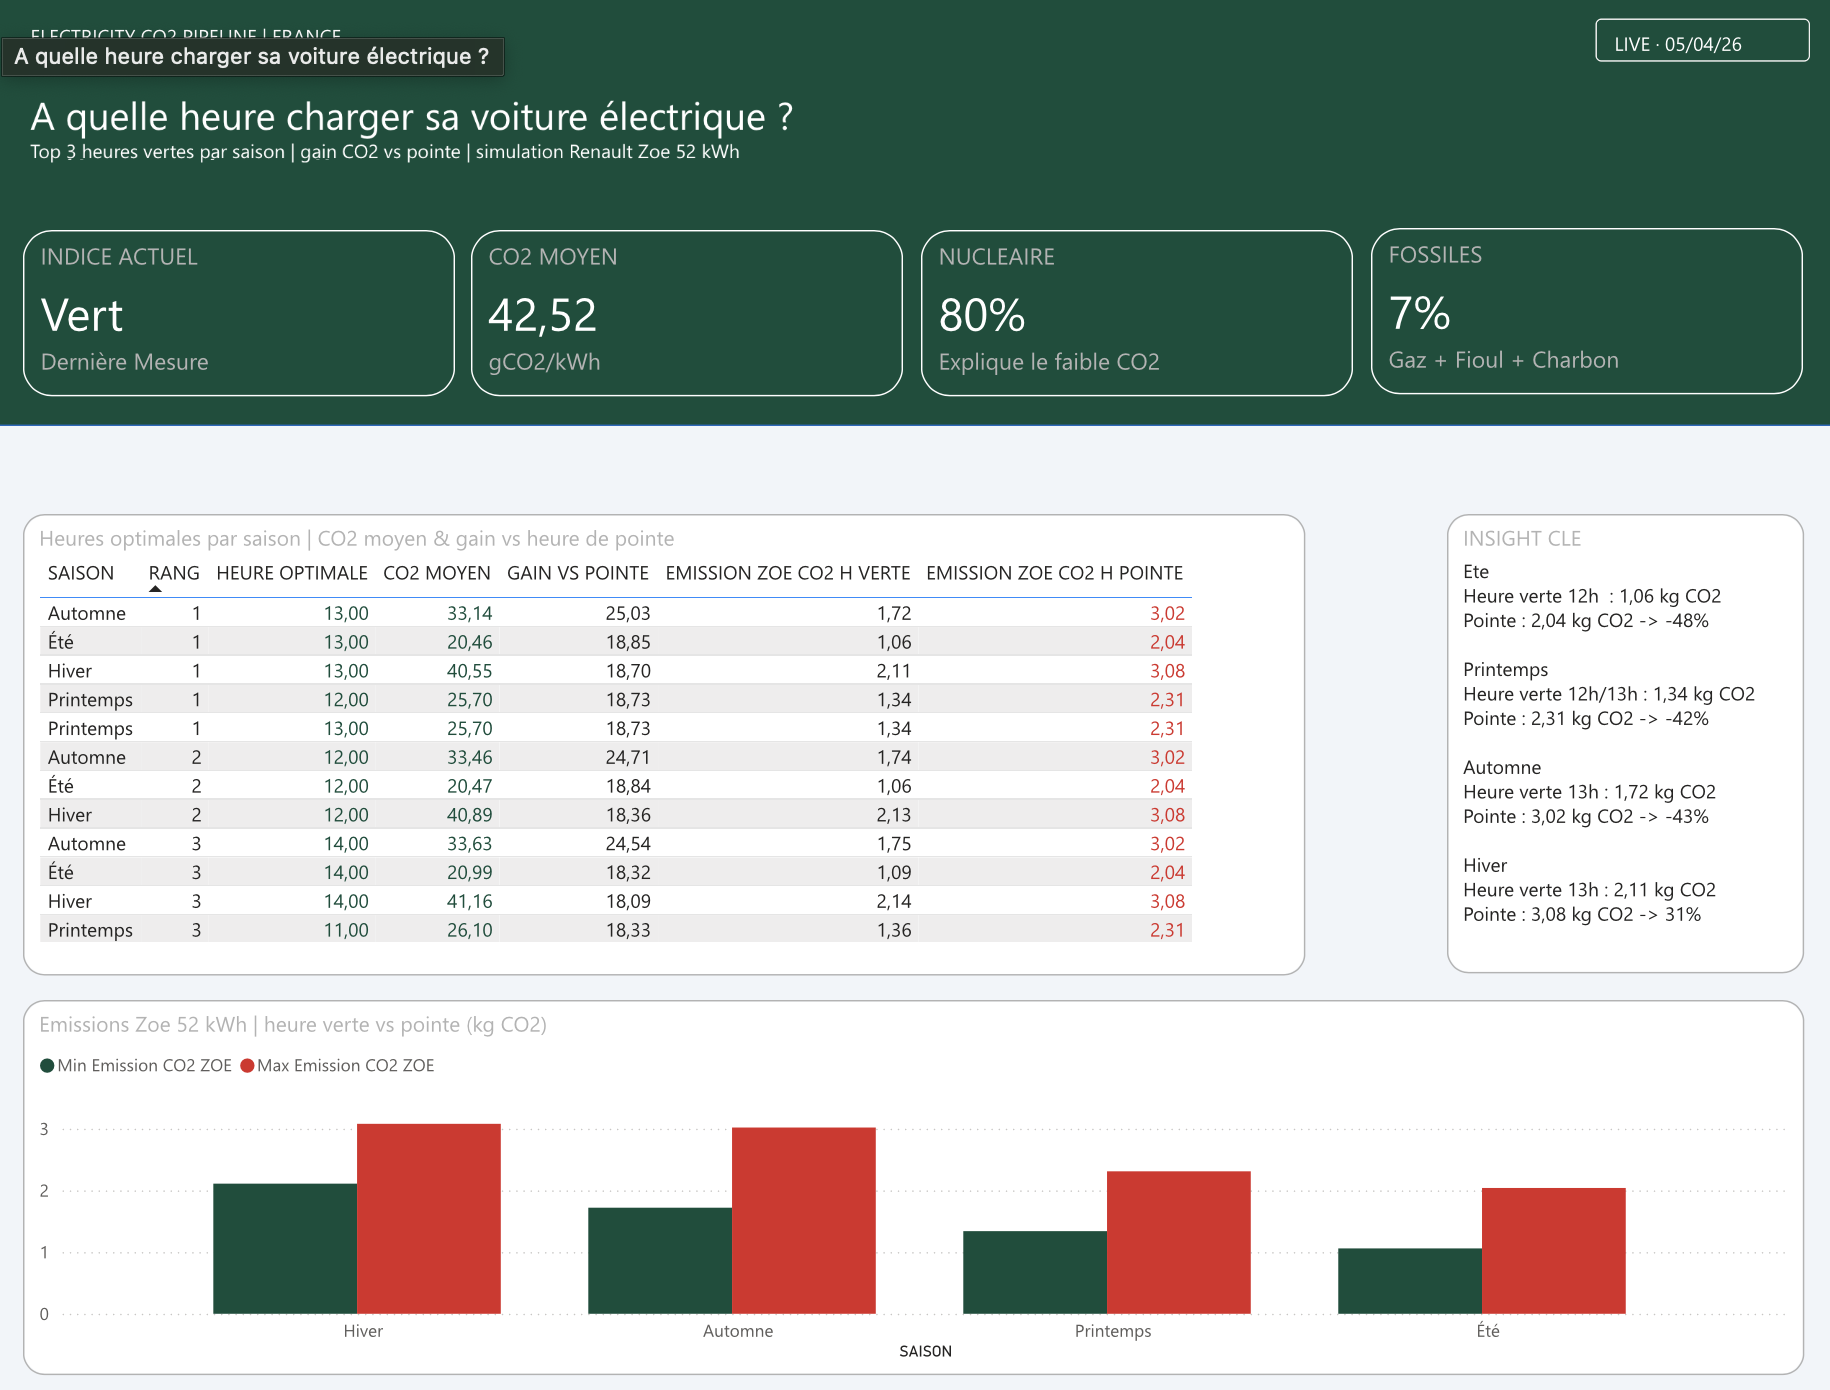
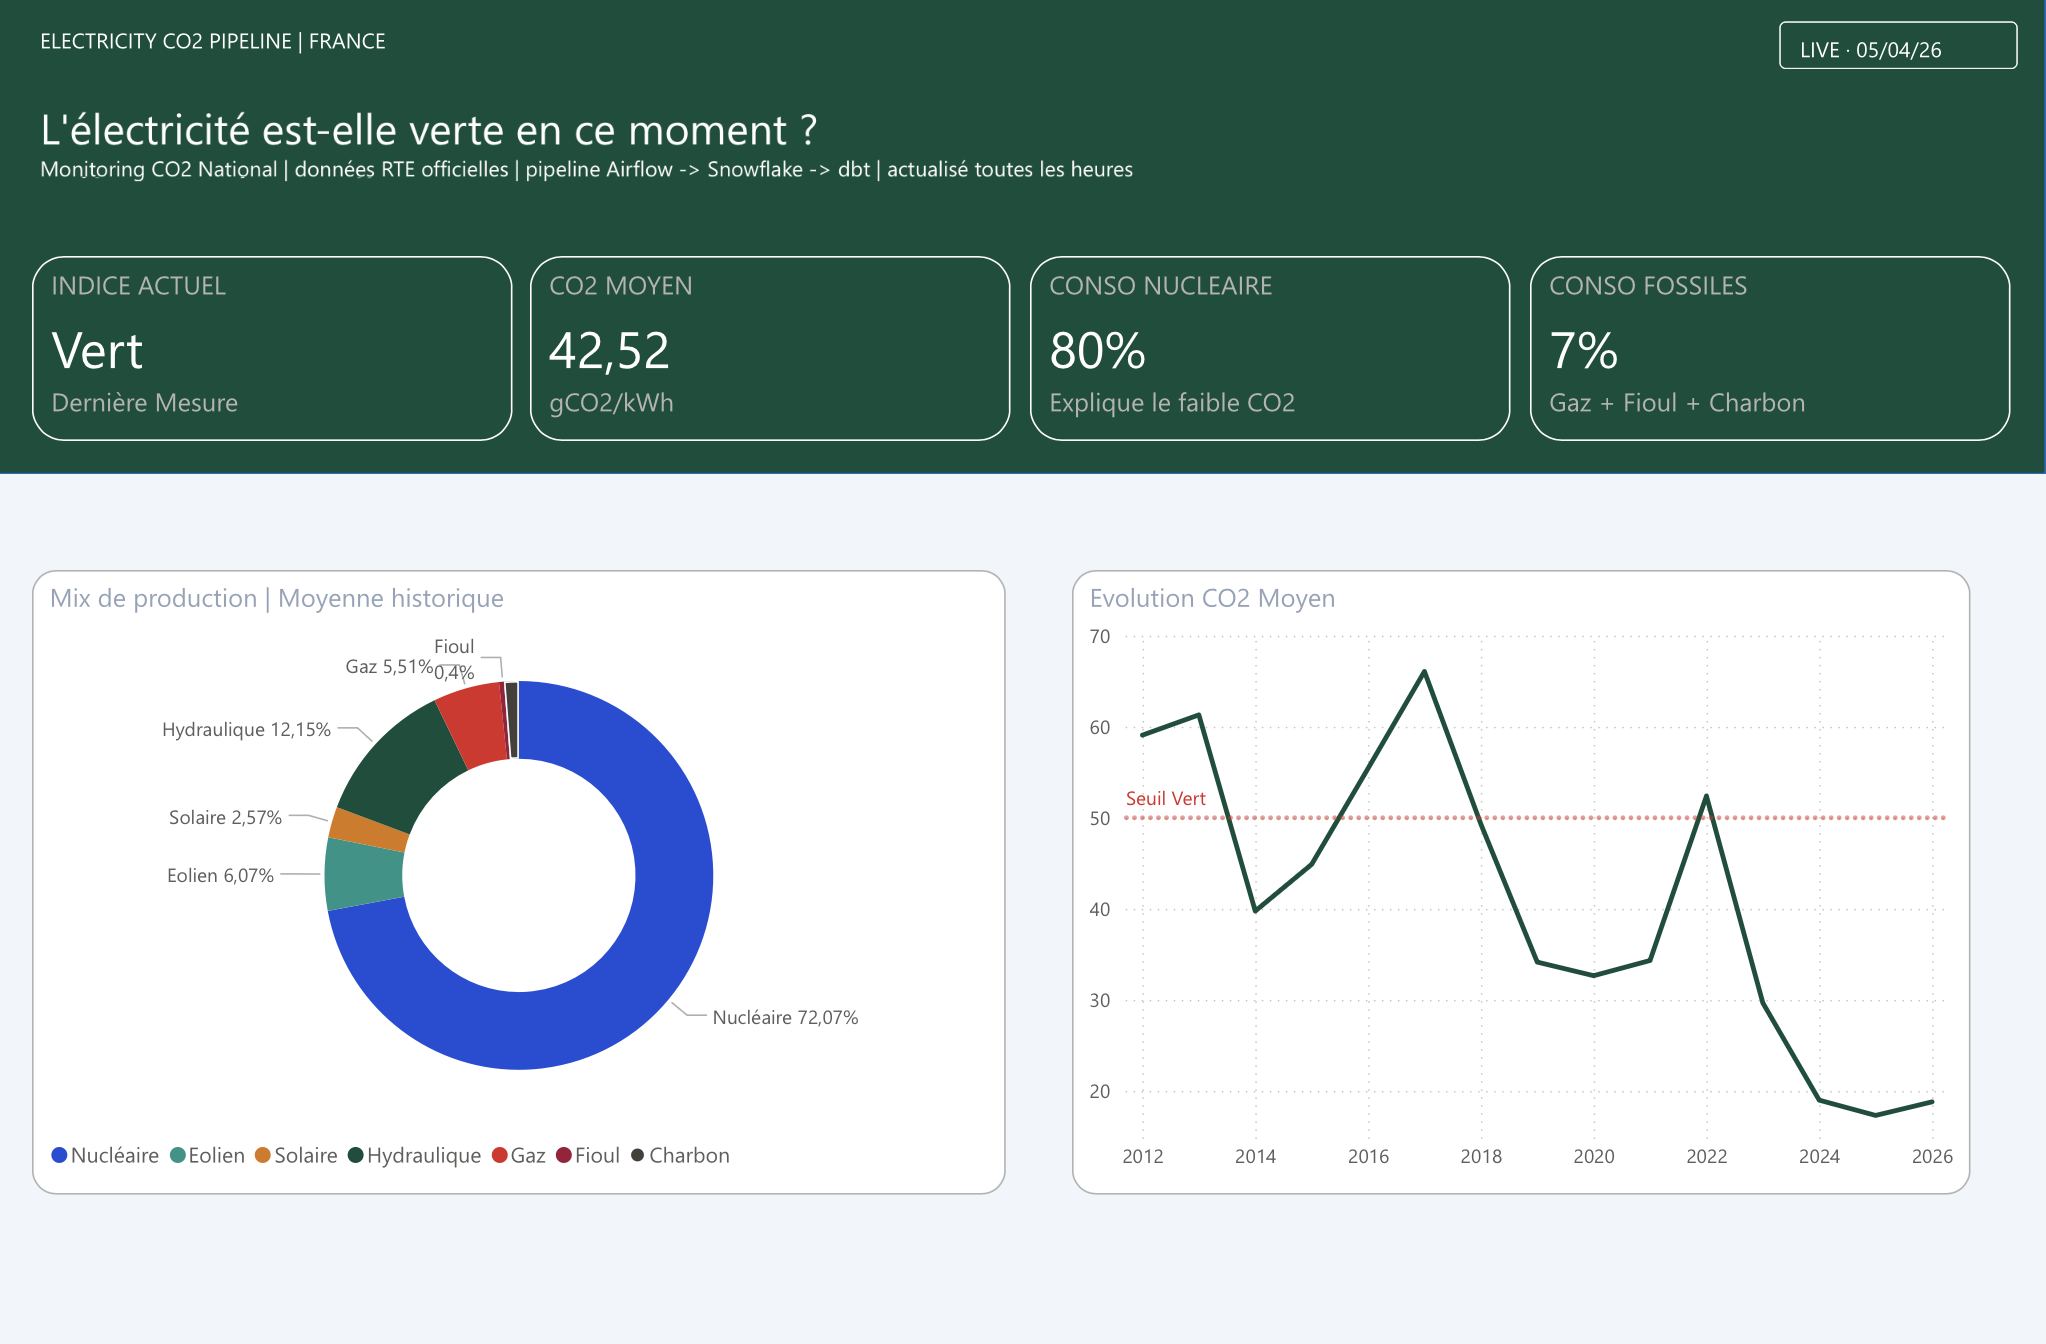
docs: update README and replace dashboard screenshots
- Updated dashboard screenshots (all 4 pages)
- Added data insights

diff --git a/README.md b/README.md
@@ -36,15 +36,24 @@ RTE éco2mix API → Airflow (4 DAGs) → Snowflake Bronze → dbt → Power BI
 ## Dashboard Power BI
 
 Page 1 — L'électricité est-elle verte en ce moment ?
+42.52 gCO2/kWh ce soir → Indice Vert
+Ce qui est frappant dans les données annuelles : la France a divisé son CO2 électrique par 3.8 en 10 ans — de 61 gCO2/kWh en 2013 à 17 gCO2/kWh en 2025.
 ![Dashboard Indice Vert](docs/screenshots/Dashboard_1_Indice_Vert.png)
 
 Page 2 — Quand l'électricité est-elle la plus verte ?
+Printemps = la saison la plus verte : 34-37 gCO2/kWh quelle que soit l'heure
+Hiver = la plus carbonée : 48-54 gCO2/kWh
+L'heure compte moins que la saison et la nuit n'est pas toujours verte.
 ![Dashboard Patterns Temporels](docs/screenshots/Dashboard_2_Patterns.png)
 
 Page 3 — Quelle région produit l'électricité la plus verte ?
+Auvergne-Rhône-Alpes #1
+Île-de-France dernière : ne produit presque rien, importe tout du réseau national
+Tendance 2012-2026 : toutes les régions progressent, mais Occitanie et Nouvelle-Aquitaine ont la pente la plus forte
 ![Dashboard Mix Régional](docs/screenshots/Dashboard_3_Regional.png)
 
 Page 4 — À quelle heure charger sa voiture électrique ?
+13h est systématiquement la meilleure heure dans 3 saisons sur 4 — c'est le pic solaire qui tire le CO2 vers le bas. En hiver le soleil est trop faible pour faire la différence, donc le gain est plus modeste.
 ![Dashboard Guide Pratique](docs/screenshots/Dashboard_4_Guide_Zoe.png)
 
 ---
